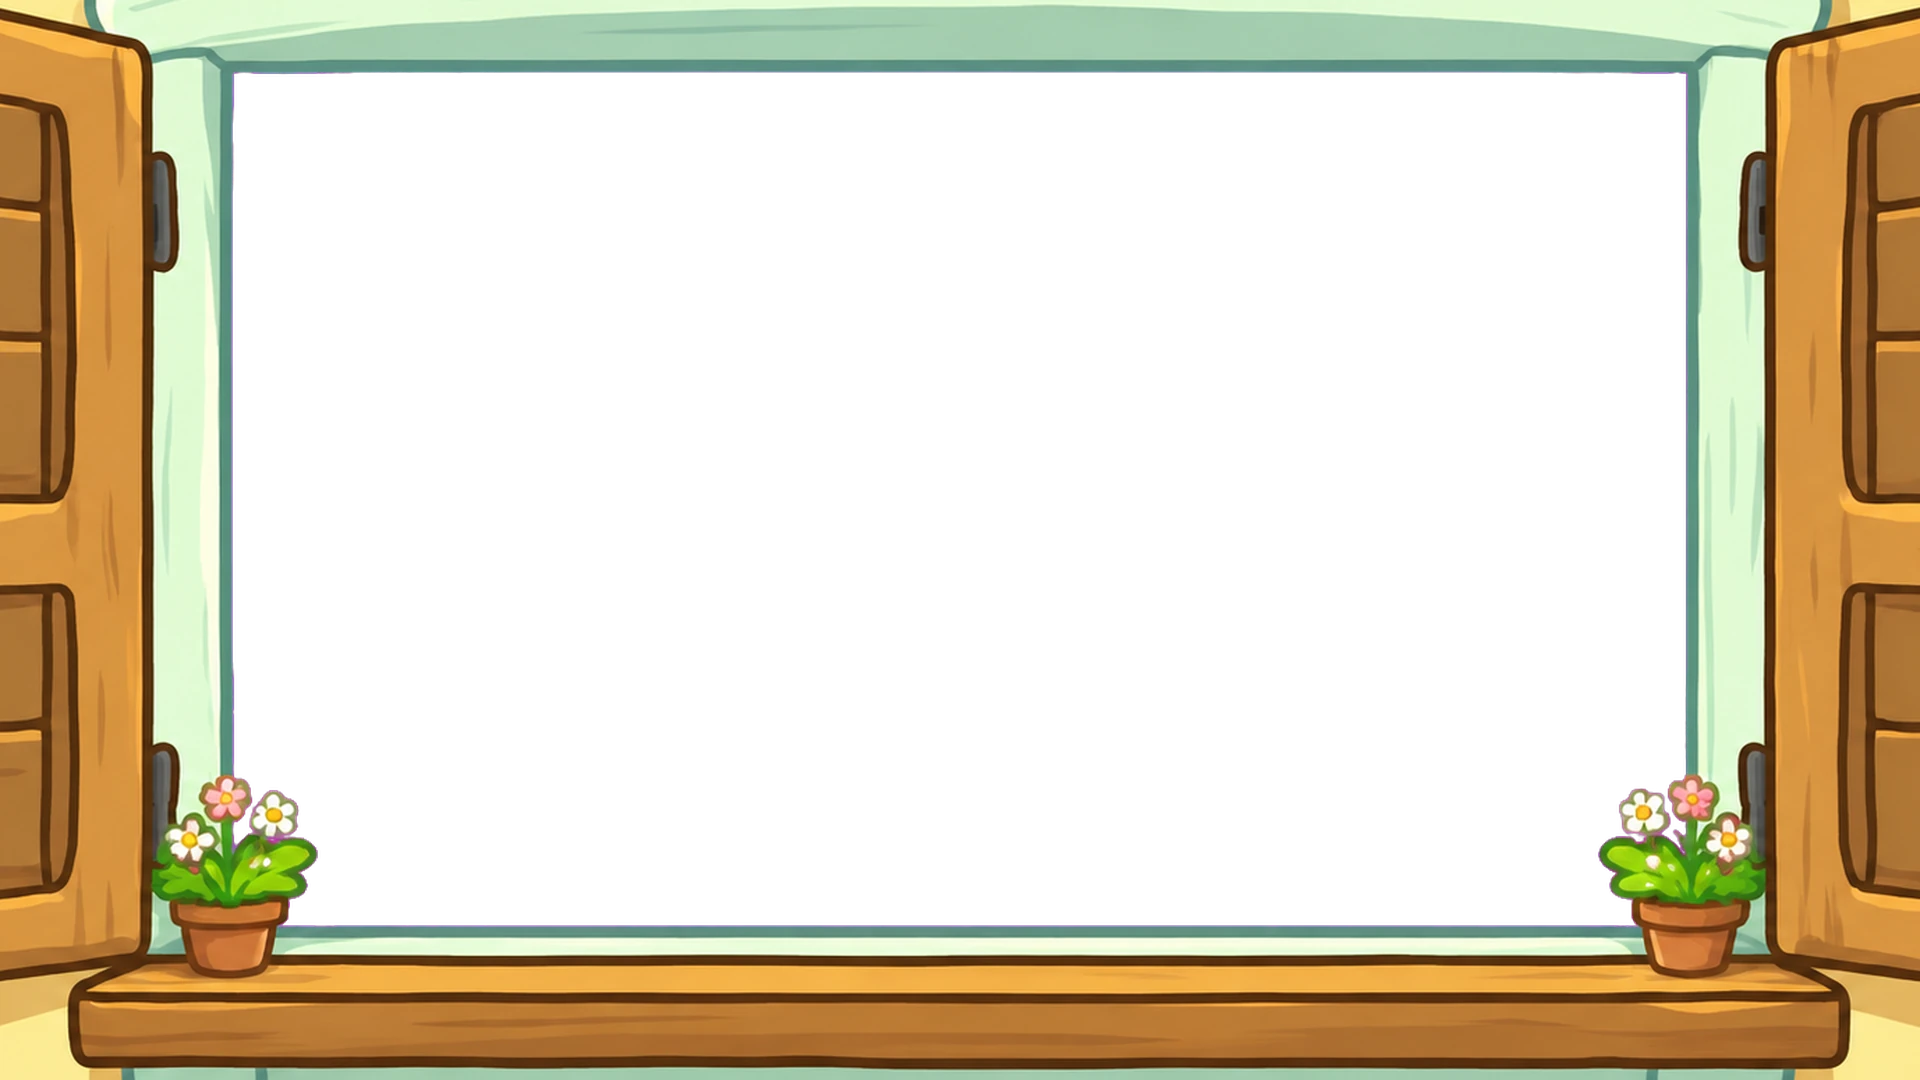
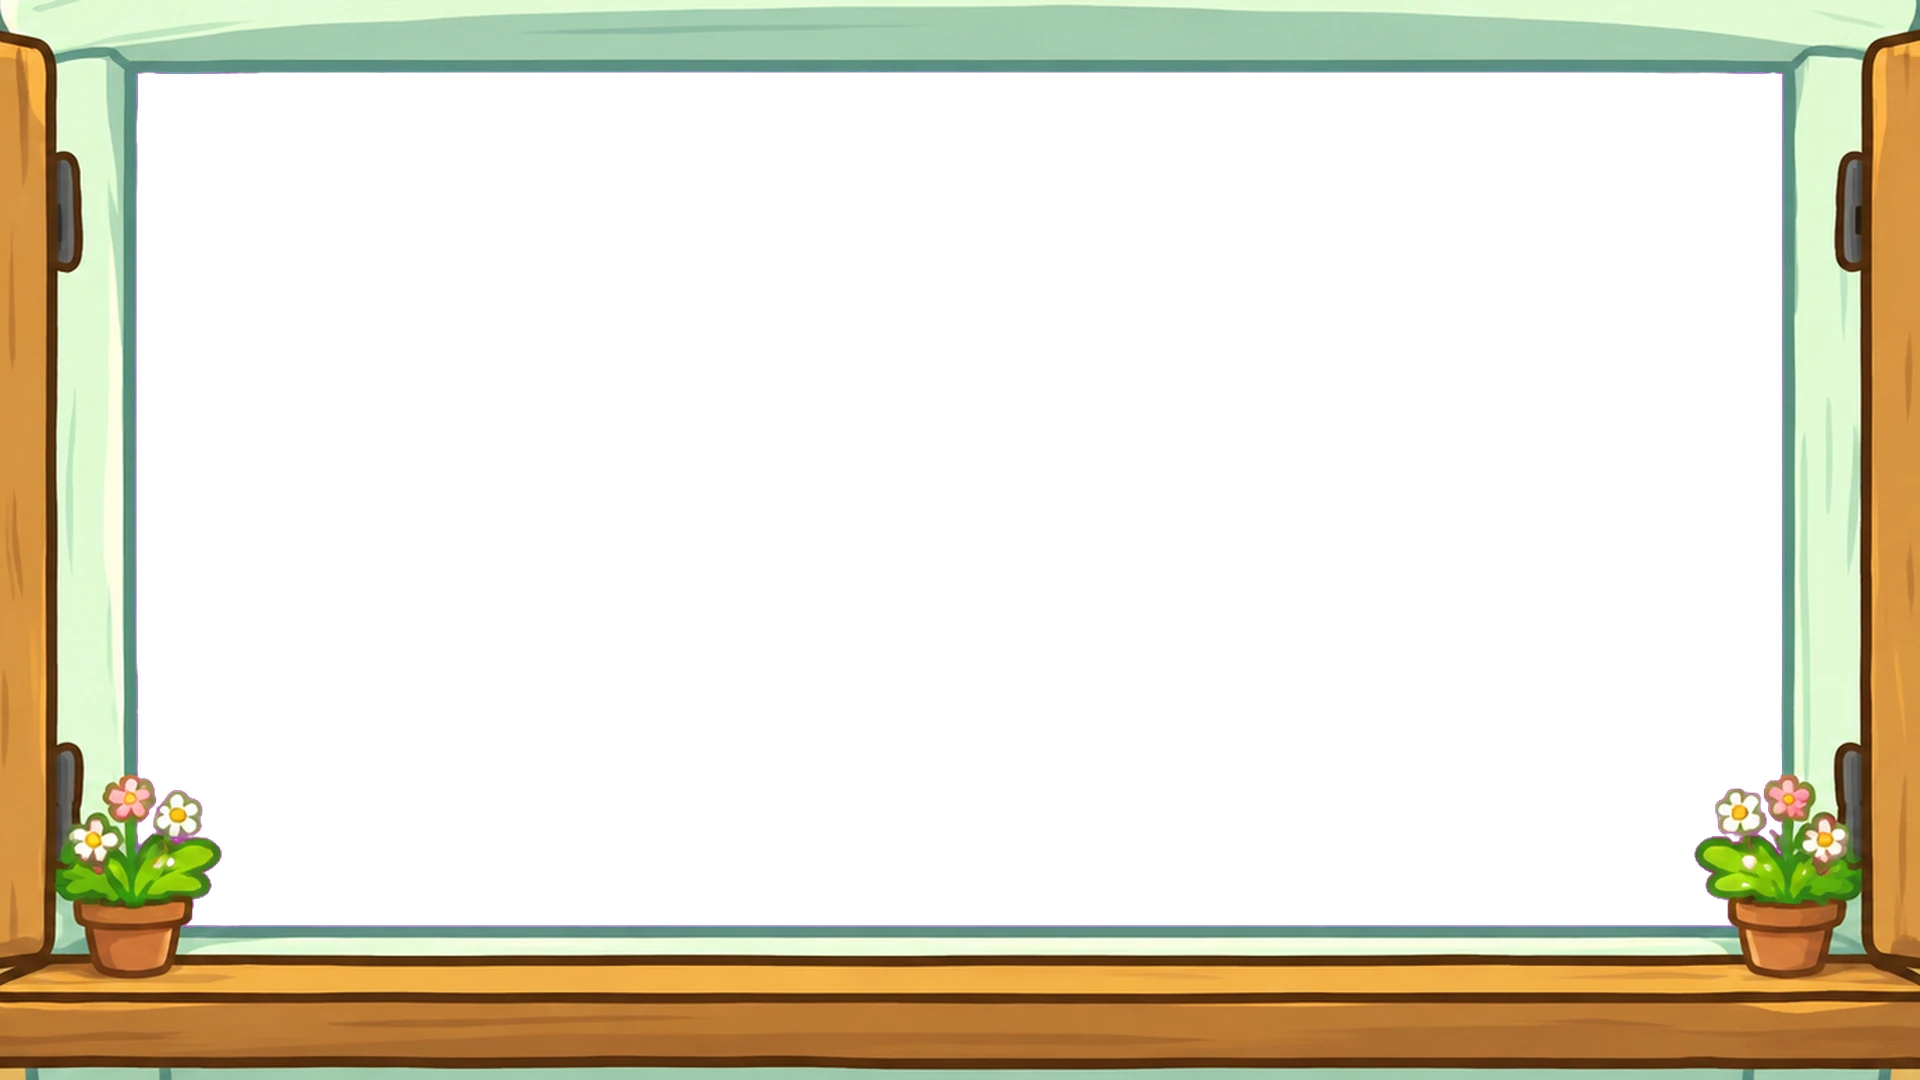
menu: finestra v2 con molta meno persiana, apertura piu' larga

diff --git a/tools/build_finestra_v2.py b/tools/build_finestra_v2.py
@@ -19,7 +19,7 @@ W, H = 1920, 1080
 KEY = np.array([231, 79, 251])     # magenta campionato nell'apertura
 D0, D1 = 40, 90                    # distanza: <D0 trasparente, >D1 pieno
 BAND = (440, 1230)                 # banda allargabile (x sorgente)
-STRETCH = 1.135
+STRETCH = 1.31
 CROP_TOP, CROP_BOTTOM = 100, 875   # y sorgente visibili
 
 src = Image.open(SRC).convert("RGB")

diff --git a/CLAUDE.md b/CLAUDE.md
@@ -240,7 +240,7 @@ forme, puzzle, tris, hanoi.
   architrave menta, davanzale coi vasi (`window-v2.webp`, da
   `tools/build_finestra_v2.py`: scontorno magenta, banda centrale allargata,
   taglio 16:9 con persiane/davanzale che escono dallo schermo). Apertura
-  1453x853 px. La v1 resta come asset (`window.webp`, valori in `_previous`).
+  1645x853 px (persiane ridotte a una striscia sul bordo). La v1 resta come asset (`window.webp`, valori in `_previous`).
 
 ## Stato attuale
 - **Shell/menu:** tile nude (icona animata + titolo maiuscolo), sfondo nuovo a norma,
